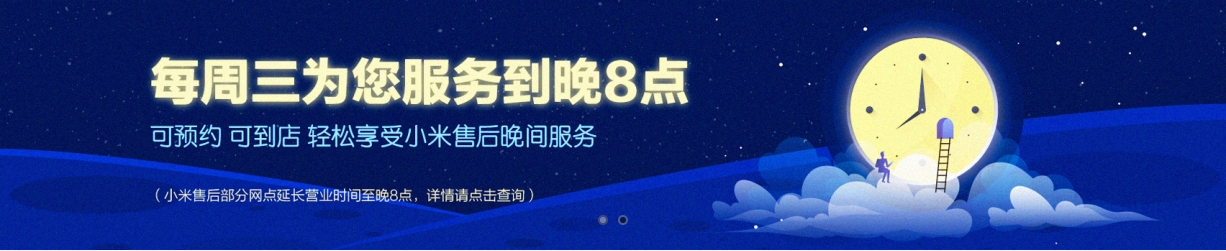
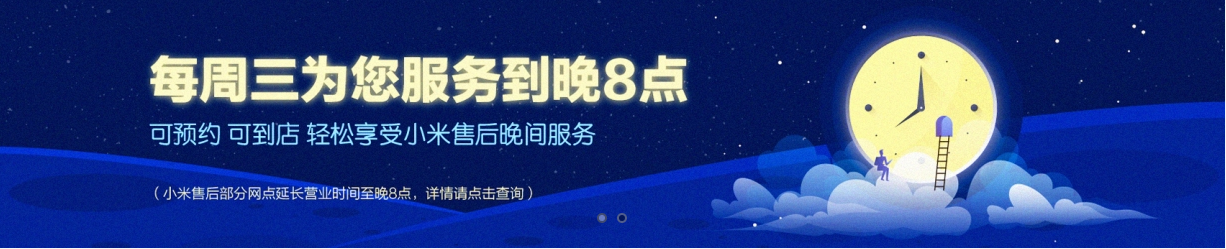
qinghuano

diff --git a/xiaomibangzhuzhongxin.html b/xiaomibangzhuzhongxin.html
@@ -56,6 +56,7 @@
 			</div>
 			<div class="shop clearfix">
 				<ul class="shop-ul">
+					<li class="shop-ul-li"><a href="#">全部商品</a></li>
 					<li class="shop-ul-li"><a href="#">小米手机</a></li>
 					<li class="shop-ul-li"><a href="#">红米</a></li>
 					<li class="shop-ul-li"><a href="#">电视</a></li>
@@ -99,12 +100,42 @@
 					<span>/</span>
 					<span class="ww-cc"> 帮助中心</span>
 					</a></p>
-				<img src="img/qingge16.png">
+			</div>
+			<div class="ww-img clearfix">
+				<ul class="ww-ul">
+					<li class="ww-li"><img src="img/qingge16.png"></li>
+					<li class="ww-li"><img src="img/qingge17.png"></li>
+			<div>
+				<ul class="carousel-btn">
+					<li class="carousel-btnp"></li>
+                    <li class="carousel-btnp"></li>
+				</ul>
+			</div>	
 			</div>
 		</div>	
 	</div>
-	<section class="ee"></section>
-	<section class="rr"></section>
+	<section class="ee">
+		<div class="container">
+			<h2>自助服务</h2>
+			<div class="ee-q clearfix">
+				<ul class="ee-w">
+					<li class="ee-e"><a href="#"><i class="iconfont">&#xe634;</i><p>申请售后服务</p><p class="pp">一键预约,快速维修</p></a></li>
+					<li class="ee-e"><a href="#"><i class="iconfont">&#xe635;</i><p>订单服务</p><p class="pp">购物信息,快速搜索</p></a></li>
+					<li class="ee-e"><a href="#"><i class="iconfont">&#xe636;</i><p>小米账户</p><p class="pp">重置密保,安全验证</p></a></li>
+					<li class="ee-e"><a href="#"><i class="iconfont">&#xe638;</i><p>保障服务</p><p class="pp">碎屏延保,双重保障</p></a></li>
+					<li class="ee-e"><a href="#"><i class="iconfont">&#xe637;</i><p>以旧换新</p><p class="pp">便捷交易，价格保障</p></a></li>
+					<li class="ee-e"><a href="#"><i class="iconfont">&#xe903;</i><p>付费服务</p><p class="pp">安装服务，时间维修</p></a></li>
+					<li class="ee-e"><a href="#"><i class="iconfont">&#xe904;</i><p>售后政策</p><p class="pp">条款说明，安心保证</p></a></li>
+					<li class="ee-e"><a href="#"><i class="iconfont">&#xe904;</i><p>查询真伪</p><p class="pp">辨别真伪，放心使用</p></a></li>
+				</ul>
+		   </div>
+		</div>
+	</section>
+	<section class="rr">
+		<div class="container">
+			<h2>产品支持</h2>
+		</div>
+	</section>
 	<nav class="yy"></nav>
 	<div class="uu"></div>
 	<section class="ii"></section>

diff --git a/css/bangzhu.css b/css/bangzhu.css
@@ -71,9 +71,9 @@
 }
 .header .shop{
 	float: left;
-	width: 600px;
+	width: 700px;
 	height: 55px;
-	margin-left: 190px;
+	margin-left: 50px;
 }
 .header .shop-ul{
 	margin-left: 30px;
@@ -83,12 +83,12 @@
 	line-height: 55px;
 }
 .header .shop-ul-li{
-	margin-right: 15px;
+	margin-right: 10px;
 	float: left;
 }
 .header .shop-ul-li a{
 	color: #000;
-	font-size: 15px;
+	font-size: 18px;
 }
 .header .shop-ul-li a:hover{
 	color:#ff6700;
@@ -199,6 +199,7 @@
 	margin-top: 22px;
 	height: 330px;
 	background: #f5f5f5;
+	position: relative;
 }
 .ww .ww-1{
 	height: 40px;
@@ -217,11 +218,104 @@
 .ww .ww-bb a .ww-cc:hover{
 	color: #000;
 }
+.ww .ww-img{
+	width: 1222px;
+	height: 251px;
+	border: 1px solid #000;
+	overflow: hidden;
+}
+.ww-ul{
+	width: 2444px;
+	height: 251px;
+	/*animation: sp 5s linear 0s infinite;*/
+}
+.ww-ul:hover{
+	animation-play-state: paused;
+}
+.ww-li{
+	float: left;
+    width: 1222px;
+	height: 252px;
+}	
+.ww-li img{
+	width: 100%;
+	height:100%;
+}
+/*@keyframes sp{
+	from{
+	   	margin-left: 0px;
+
+			}
+	to{
+		margin-left: -1221px;
+	}
+}*/
+.ww .ww-img .carousel-btn{
+	position: absolute;
+	left: 48.2%;
+	bottom: 61px;
+}
+.ww .ww-img .carousel-btn li{
+	float: left;
+	width: 6px;
+	height: 6px;
+	margin-left: 10px;
+	border: 3px solid #b5b3ad;
+	background: #96938a;
+	border-radius: 50%;
+}
+.ww .ww-img .carousel-btn .carousel-btnp:hover{
+	border-color: #979590;
+/*	background: #fcf9f0;*/
+}
 .ee{
 	height: 697px;
-	background: blue;
+	background: #f5f5f5;
+}
+.ee h2{
+	text-align: center;
+	font-size: 20px;
+	color: #666666;
+}
+.ee .ee-q{
+	margin-top: 37px;
+}
+.ee .ee-e{
+	float: left;
+	width: 295px;
+	height: 275px;
+	margin-right: 10px;
+	margin-bottom: 12px;
+	background: #fff;
+	text-align: center;
+	padding-top: 81px;
+	box-sizing: border-box;
+	transition: 0.5s;
+}
+.ee .ee-e:hover{
+	box-shadow: 0 5px 30px rgba(0,0,0,0.2);
+	transform: translateY(-20px);
+}
+.ee .ee-e a:hover{
+	color: #ff6700;
+}
+.ee .ee-e a i{
+	font-size: 47px;
+}
+.ee .ee-e p{
+	margin-top: 15px;
+	font-size: 21px;
+	color: #000；
+}
+.ee .ee-e .pp{
+	font-size: 10px;
 }
 .rr{
 	height: 681px;
-	background: red;
+	background: #f5f5f5;
+}
+.rr h2{
+	text-align: center;
+	font-size: 20px;
+	color: #666666;
 }
